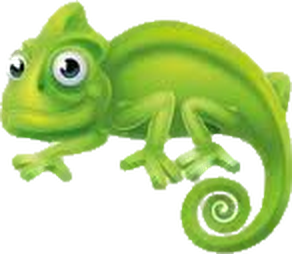
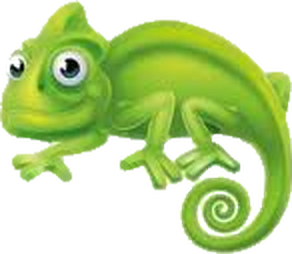
fix: plus aucun reste de blanc dans la queue du caméléon
- Dans la spirale de la queue et autour des pattes arrière, tout pixel
  mélangé au blanc devient transparent (les interstices laissent voir
  le fond, les spires restent vertes).
- L'adresse du logo porte un numéro de version : les navigateurs ne
  peuvent plus afficher une ancienne image gardée en mémoire.

diff --git a/resources/views/components/site-header.blade.php b/resources/views/components/site-header.blade.php
@@ -28,7 +28,7 @@
         <a href="{{ route('home') }}" class="site-brand" aria-label="Split Distribution - Accueil">
             <span class="site-brand__mark" aria-hidden="true">
                 <img
-                    src="{{ asset('images/brand/chameleon-mark.png') }}"
+                    src="{{ asset('images/brand/chameleon-mark.png') }}?v={{ filemtime(public_path('images/brand/chameleon-mark.png')) }}"
                     alt=""
                     width="292"
                     height="254"

diff --git a/resources/views/components/site-footer.blade.php b/resources/views/components/site-footer.blade.php
@@ -6,7 +6,7 @@
 
             <div class="site-footer__logo">
                 <img
-                    src="{{ asset('images/brand/chameleon-mark.png') }}"
+                    src="{{ asset('images/brand/chameleon-mark.png') }}?v={{ filemtime(public_path('images/brand/chameleon-mark.png')) }}"
                     alt=""
                     width="292"
                     height="254"
